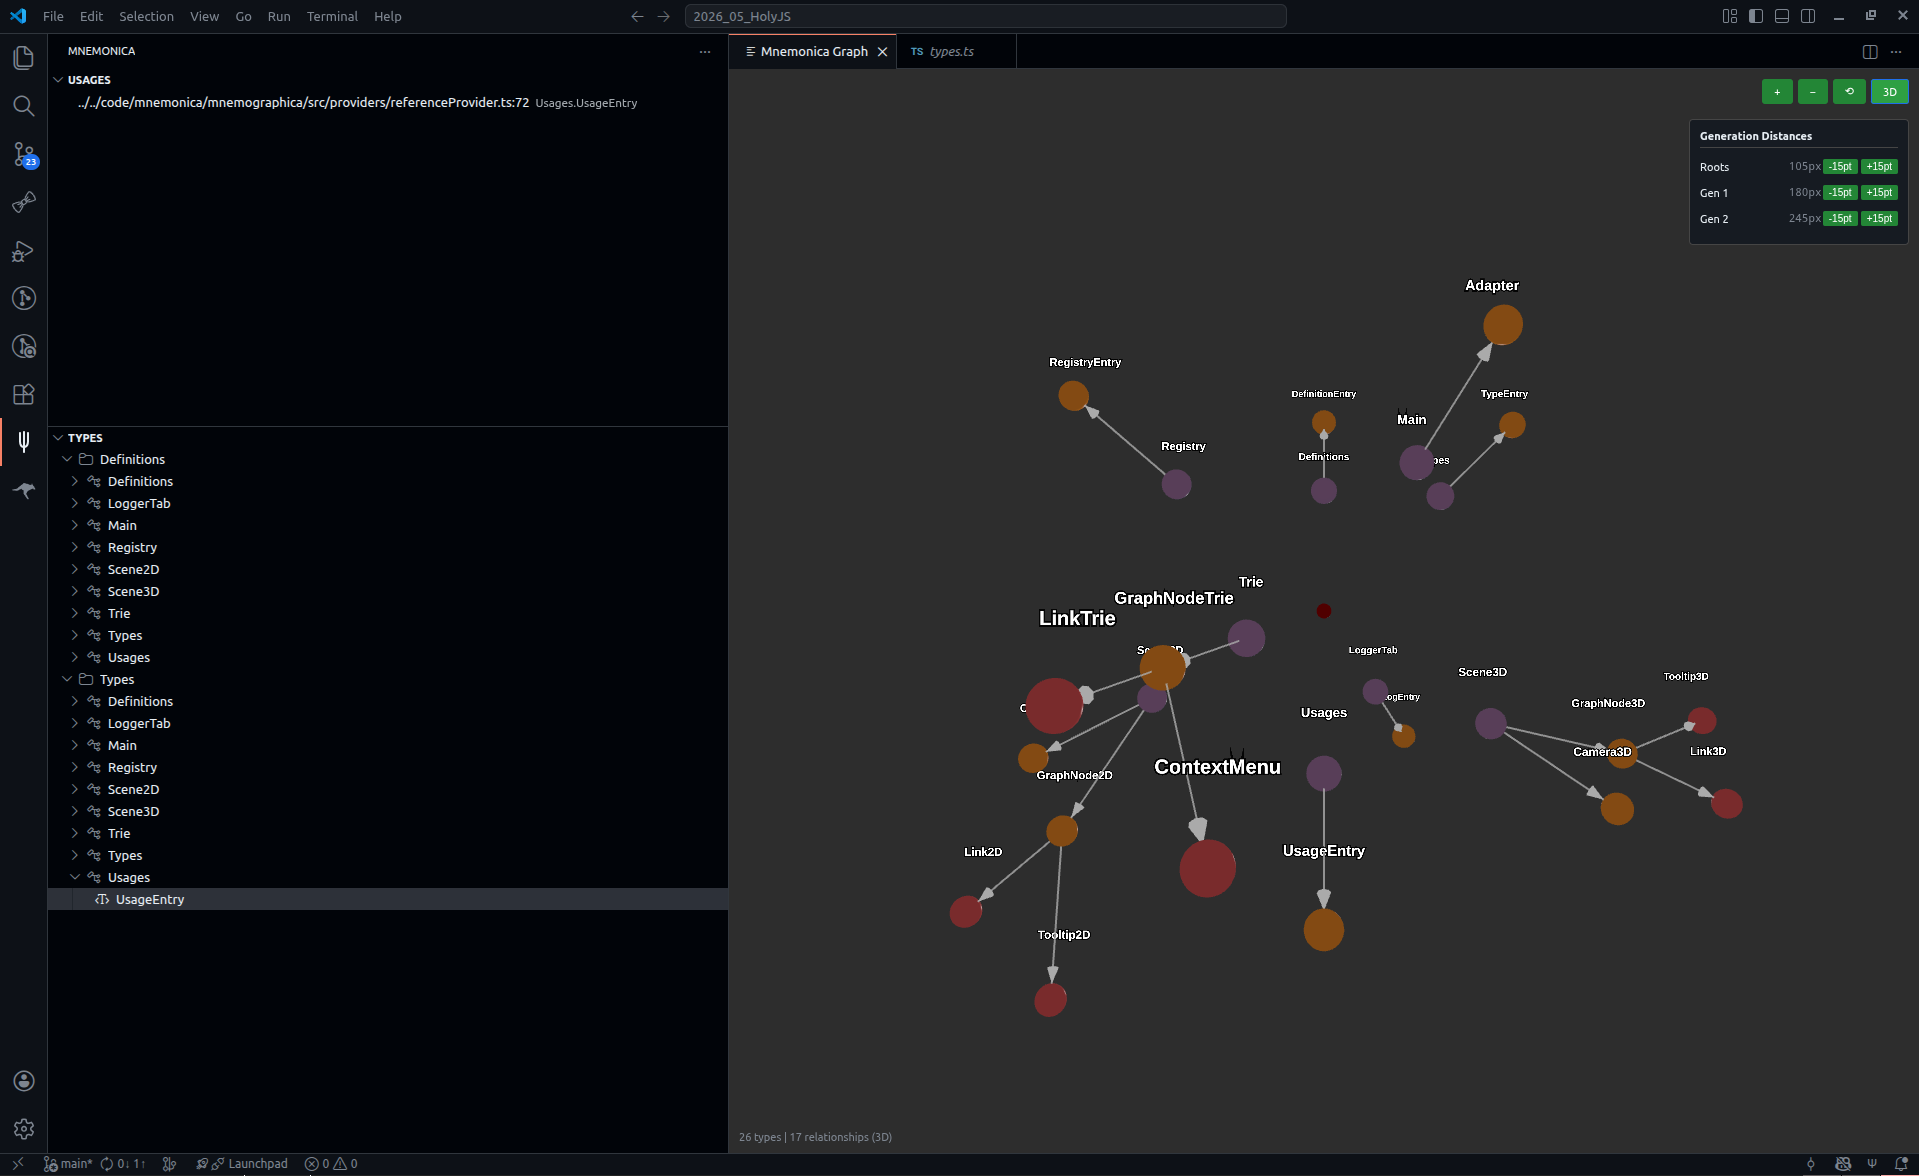
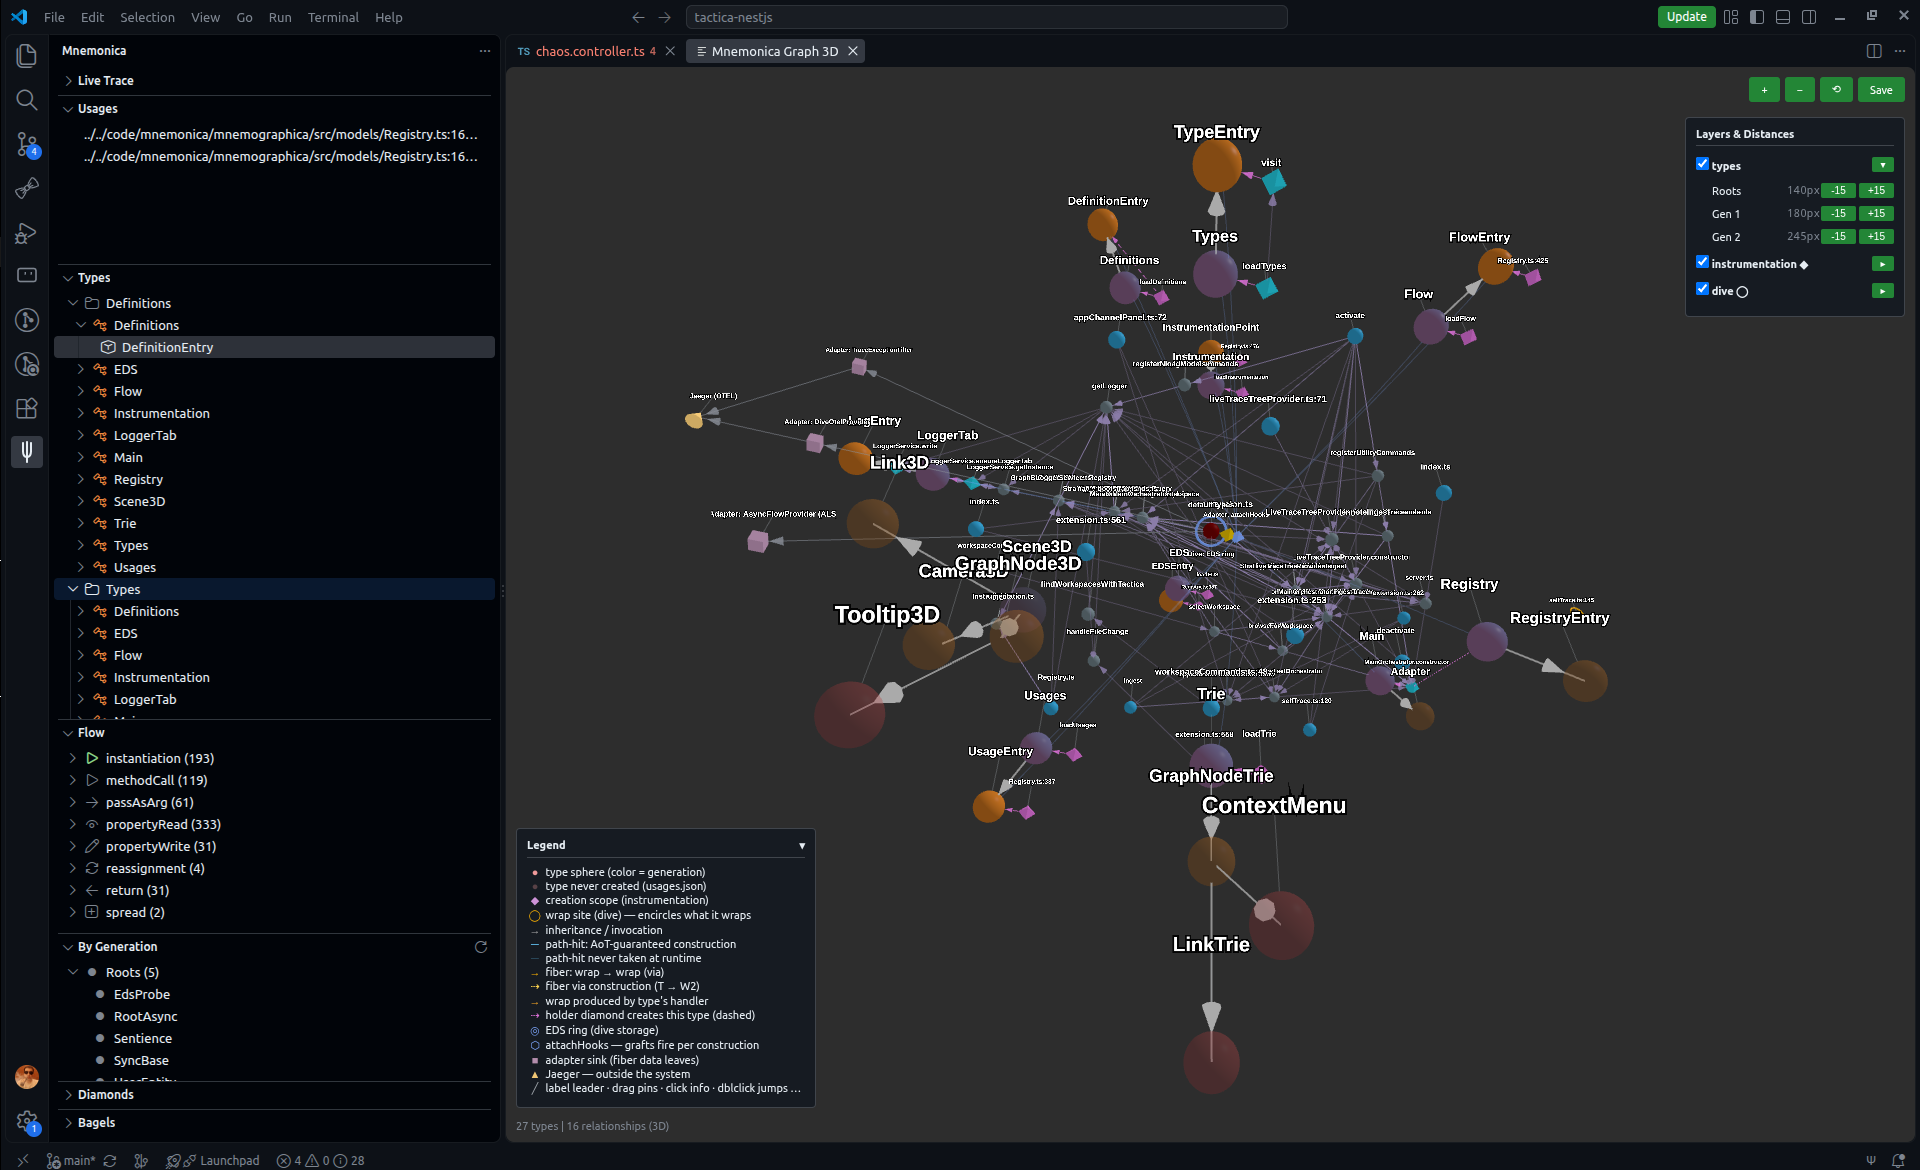
screenshot

diff --git a/README.md b/README.md
@@ -2,6 +2,8 @@
 
 Explore mnemonica type hierarchies in VS Code: definitions, generated types, usages, execution flow and inheritance depth — with go-to-definition navigation throughout.
 
+![Mnemonica Graphica drawing its own type registry: type spheres by generation, creation-graph diamonds, dive wrap rings, the Legend, the Layers & Distances panel and the full sidebar](img/screen.png)
+
 ## Features
 
 - **Types Tree**: The full inheritance hierarchy — Definitions (actual `define()` sites) and Types (generated aliases in `.tactica/types.ts`), cross-linked
